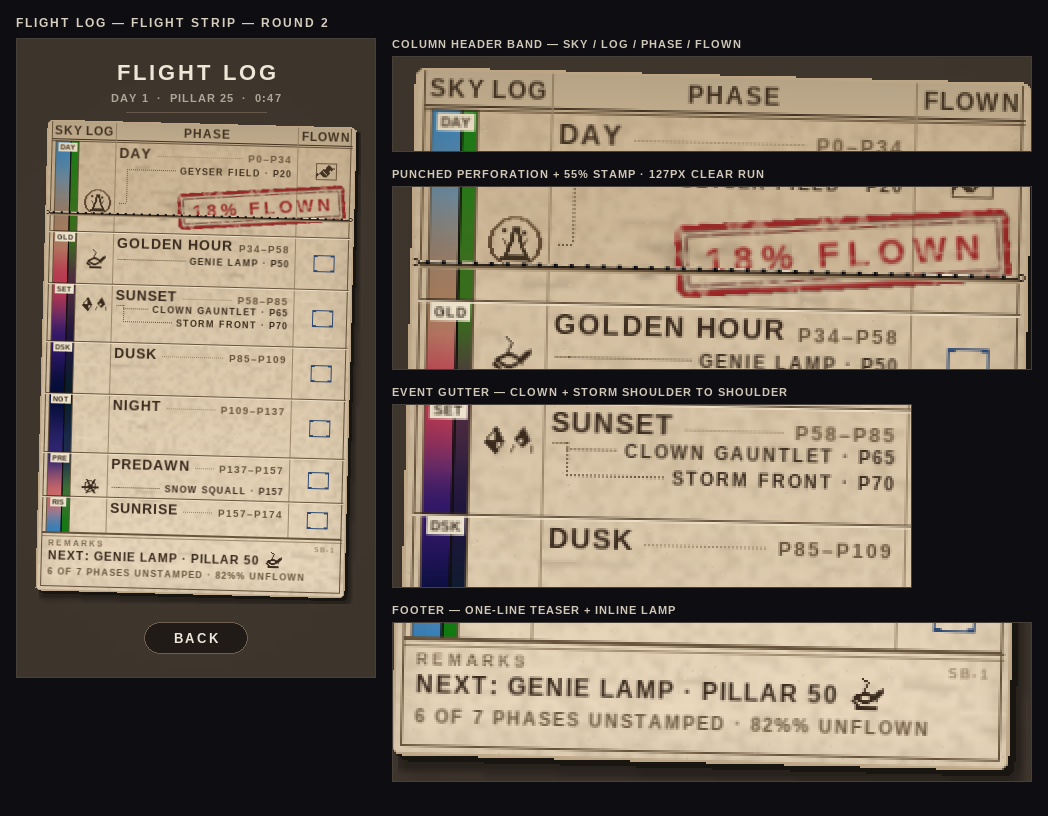
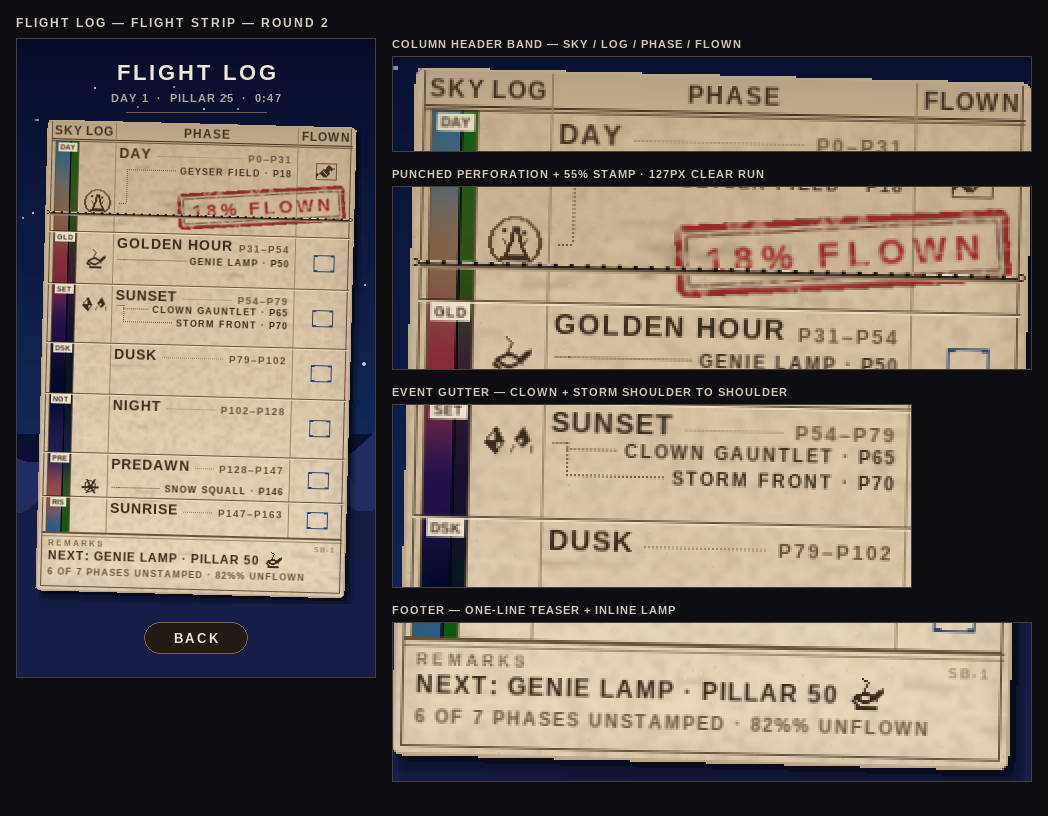
flight-log D/E: update flight_strip round_2, add Skybit bg changes to sun_arc script

diff --git a/tools/render_flight_log_progress_sun_arc.py b/tools/render_flight_log_progress_sun_arc.py
@@ -55,6 +55,7 @@ R_INNER = 159          # event-glyph rail, inside the arc
 R_LABEL = 205          # phase-name chips, outside the arc
 SS = 3
 
+ROOT = "/home/user/skybit"
 FONT_PATH = "/home/user/skybit/game/assets/LiberationSans-Bold.ttf"
 _fonts: dict = {}
 
@@ -736,15 +737,63 @@ def draw_macaw(surf):
     return (bx, by, bird.get_width())
 
 
+# ── skybit background ────────────────────────────────────────────────────────
+
+def build_skybit_bg(w=360, h=640):
+    surf = pygame.Surface((w, h))
+    sky_bot_y = int(h * 0.62)
+    for y in range(sky_bot_y):
+        t = y / sky_bot_y
+        c = (
+            int(8  + (18 - 8)  * t),
+            int(12 + (40 - 12) * t),
+            int(40 + (90 - 40) * t),
+        )
+        pygame.draw.line(surf, c, (0, y), (w - 1, y))
+    for y in range(sky_bot_y, h):
+        pygame.draw.line(surf, (10, 16, 48), (0, y), (w - 1, y))
+    rng = random.Random(20260801)
+    star_zone = int(h * 0.55)
+    for _ in range(40):
+        sx, sy = rng.randrange(w), rng.randrange(star_zone)
+        a = rng.randint(100, 210)
+        r = 1 if rng.random() < 0.8 else 2
+        lay = pygame.Surface((r * 2 + 2, r * 2 + 2), pygame.SRCALPHA)
+        pygame.draw.circle(lay, (220, 230, 255, a), (r + 1, r + 1), r)
+        surf.blit(lay, (sx - r - 1, sy - r - 1))
+    far_y = int(h * 0.60)
+    pts_far = [(0, h)]
+    for x in range(0, w + 1, 3):
+        offs = (math.sin(x * 0.022 + 1.4) * 28 + math.sin(x * 0.041 + 0.6) * 14)
+        pts_far.append((x, far_y + int(offs)))
+    pts_far.append((w, h))
+    pygame.draw.polygon(surf, (35, 45, 100), pts_far)
+    near_y = int(h * 0.70)
+    pts_near = [(0, h)]
+    for x in range(0, w + 1, 3):
+        offs = (math.sin(x * 0.033 + 2.1) * 22 + math.sin(x * 0.058 + 1.0) * 10)
+        pts_near.append((x, near_y + int(offs)))
+    pts_near.append((w, h))
+    pygame.draw.polygon(surf, (22, 30, 72), pts_near)
+    return surf
+
+
 # ── screen ───────────────────────────────────────────────────────────────────
 
 def render_screen():
     surf = pygame.Surface((W, H))
-    draw_dome(surf)
-    draw_clouds(surf)
-    draw_ghost_night(surf)
-    draw_horizon_light(surf)
-    draw_ground(surf)
+    bg = build_skybit_bg(W, H)
+    surf.blit(bg, (0, 0))
+    # Dark veil on the unearned side (right of death position)
+    vx = int(DEATH_X)
+    for dx in range(14):
+        a = int(140 * (1 - dx / 14))
+        lay = pygame.Surface((1, H), pygame.SRCALPHA)
+        lay.fill((6, 8, 20, a))
+        surf.blit(lay, (vx - 7 + dx, 0))
+    veil_surf = pygame.Surface((W - vx, H), pygame.SRCALPHA)
+    veil_surf.fill((6, 8, 20, 140))
+    surf.blit(veil_surf, (vx, 0))
 
     ss = pygame.Surface((W * SS, H * SS), pygame.SRCALPHA)
     trail_bloom(surf)
@@ -828,19 +877,19 @@ def render_screen():
     # ── ground band ──
     # Near-horizon phase names lose the pill entirely and become dune signage
     # under the arc feet, where there is room for them.
-    text(surf, "DAY", 8, midleft=(10, 442), color=DEEP_BROWN, shadow=None, track=2)
-    text(surf, "PREDAWN · SUNRISE", 8, midright=(350, 442), color=DEEP_BROWN,
+    text(surf, "DAY", 8, midleft=(10, 442), color=(180, 190, 210), shadow=None, track=2)
+    text(surf, "PREDAWN · SUNRISE", 8, midright=(350, 442), color=(180, 190, 210),
          shadow=None, track=1)
     pygame.draw.line(surf, (150, 104, 66), (10, 451), (350, 451), 1)
 
     hr = font(10).size("STILL AHEAD")[0] + 2 * 2
-    text(surf, "STILL AHEAD", 10, center=(W // 2, 465), color=DEEP_BROWN, track=2,
+    text(surf, "STILL AHEAD", 10, center=(W // 2, 465), color=(180, 190, 210), track=2,
          shadow=None)
     for sgn in (-1, 1):
         x0 = W // 2 + sgn * (hr // 2 + 14)
         pygame.draw.line(surf, (140, 96, 62), (x0, 465), (x0 + sgn * 48, 465), 1)
     for i, (_fn, col, t) in enumerate(rows):
-        text(surf, t, 10, midleft=(tx, 481 + i * 19), color=DEEP_BROWN, shadow=None)
+        text(surf, t, 10, midleft=(tx, 481 + i * 19), color=(180, 190, 210), shadow=None)
 
     alpha_line(surf, (246, 214, 168, 80), (28, 512), (332, 512), 1)
     for i, (_fn, name, _c) in enumerate(GLYPHS):
@@ -1030,13 +1079,12 @@ def main():
     for line in notes:
         print(line)
 
-    sheet = render_sheet(screen, blur, notes)
-    out = "/home/user/skybit/docs/flight_log_progress/sun_arc/round_2.png"
-    os.makedirs(os.path.dirname(out), exist_ok=True)
-    pygame.image.save(sheet, out)
-    pygame.image.save(screen, "/tmp/claude-0/-home-user-skybit/"
-                              "7f4ec15a-b5d0-559d-b89a-efd7cfaf73bc/scratchpad/sun_arc_r2_screen.png")
-    print("saved", out, sheet.get_size())
+    out_r3 = os.path.join(ROOT, "docs", "flight_log_progress",
+                          "sun_arc", "round_3.png")
+    os.makedirs(os.path.dirname(out_r3), exist_ok=True)
+    pygame.image.save(screen, out_r3)
+    loaded = pygame.image.load(out_r3)
+    print(f"saved {out_r3}  {loaded.get_size()}")
 
 
 if __name__ == "__main__":
